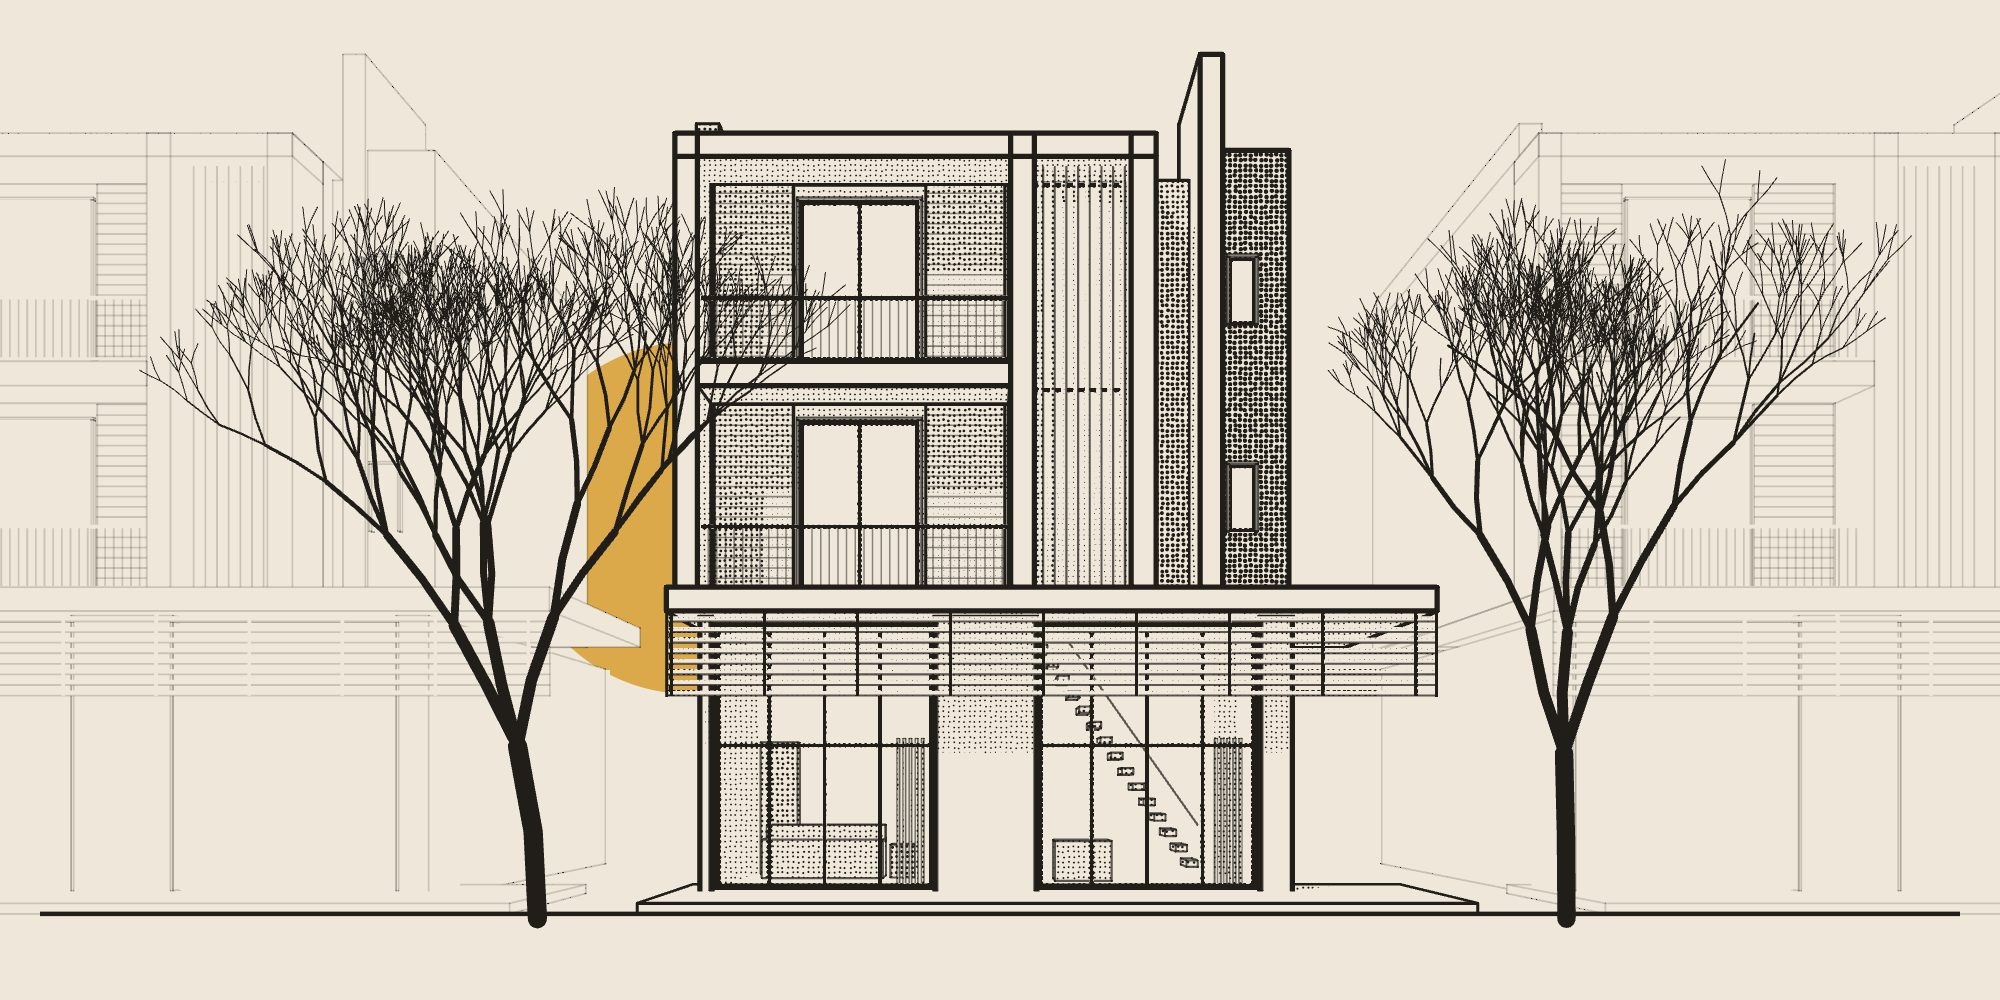
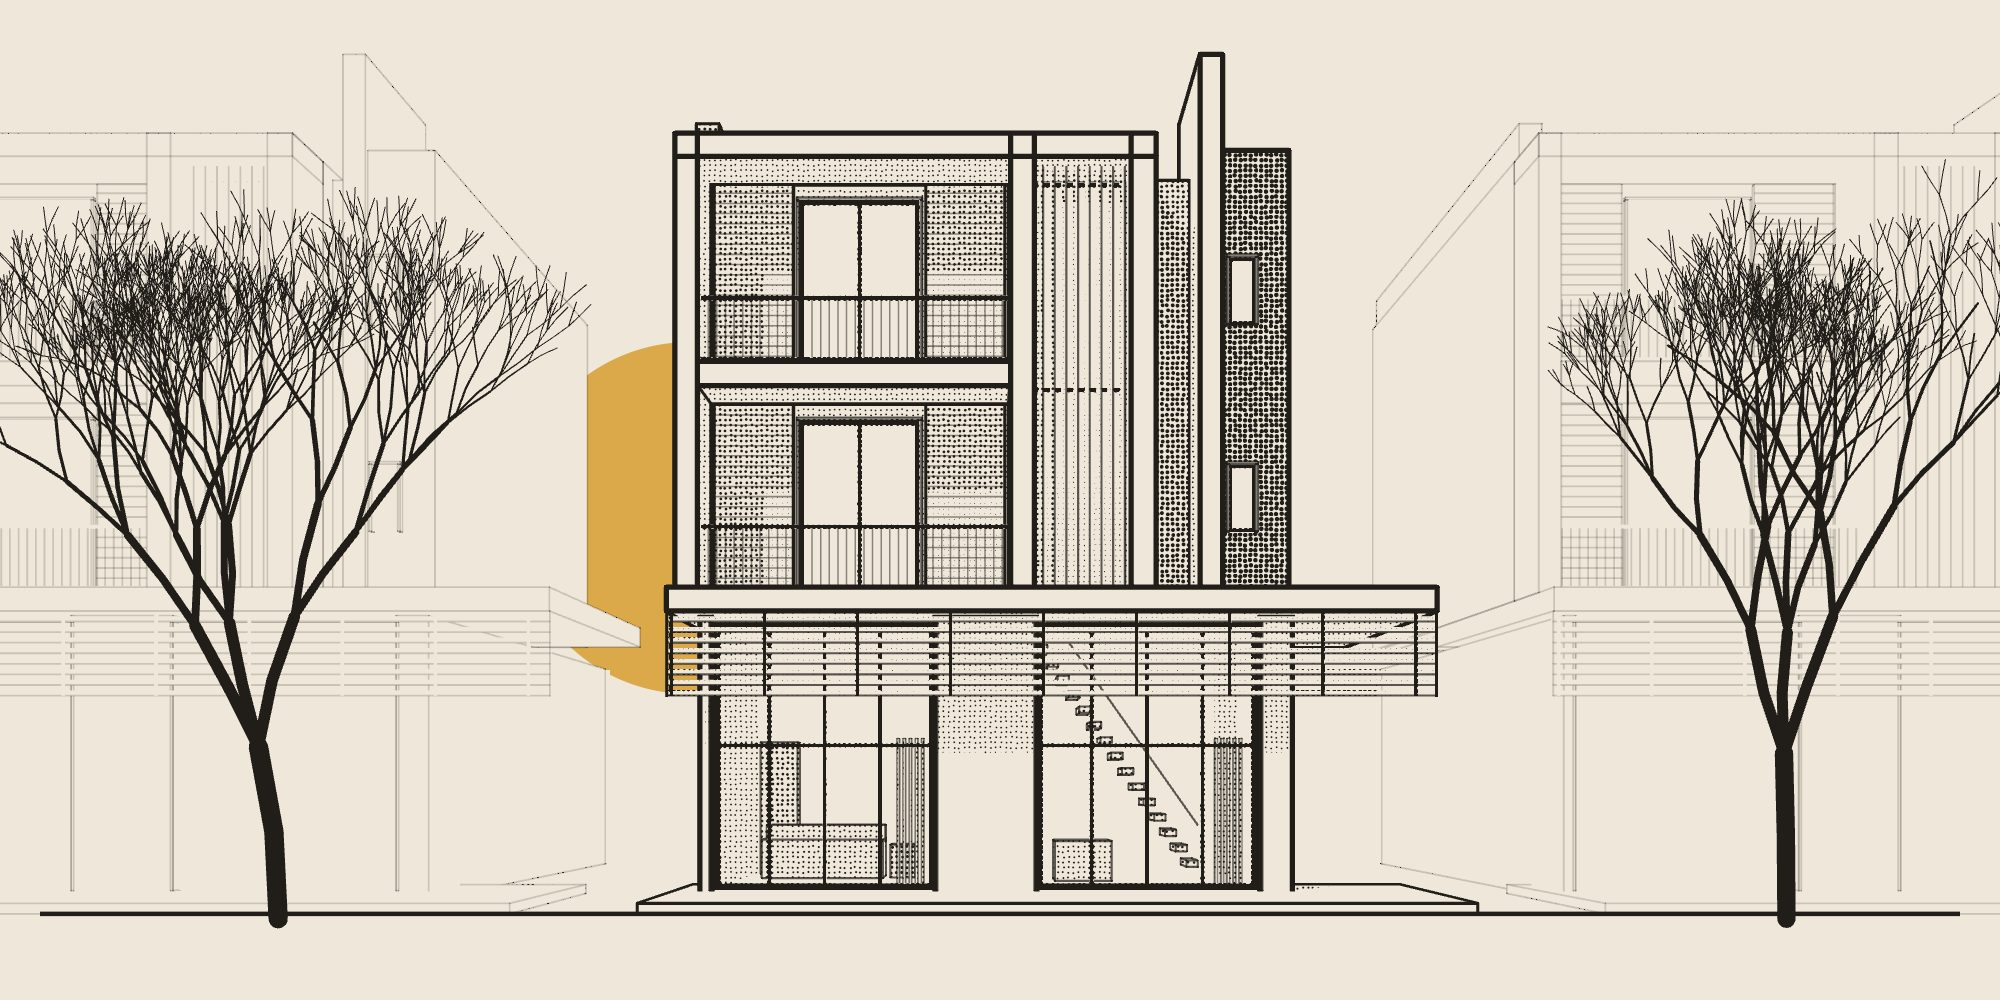
Courtyard Homes: move the trees out to the sides, clear of the house
Claude-Session: https://claude.ai/code/session_01C95DWHDY8NmwjfweiUBywE

Changed region(s): [[0.0, 0.186, 0.434, 0.93], [0.651, 0.186, 1.0, 0.93]]

diff --git a/src/ink/models.js b/src/ink/models.js
@@ -4,7 +4,7 @@ import villas, * as V from './villas'
 
 export const HOMES = {
   build: homes, VIEW: H.VIEW, CARD_VIEW: H.CARD_VIEW, NARROW_VIEW: H.NARROW_VIEW, SPOTS: H.SPOTS, OUTLINE: H.OUTLINE, GROUND_Z: H.GROUND_Z,
-  TREES: [{ x: -6.1, z: H.GROUND_Z + 0.8, h: 8.2, seed: 7 }, { x: 7.0, z: H.GROUND_Z + 0.8, h: 7.8, seed: 21 }],
+  TREES: [{ x: -9.4, z: H.GROUND_Z + 0.8, h: 8.2, seed: 7 }, { x: 9.8, z: H.GROUND_Z + 0.8, h: 7.8, seed: 21 }],   // out to the sides, clear of the house
   label: 'Courtyard Homes',
 }
 export const VILLAS = {
